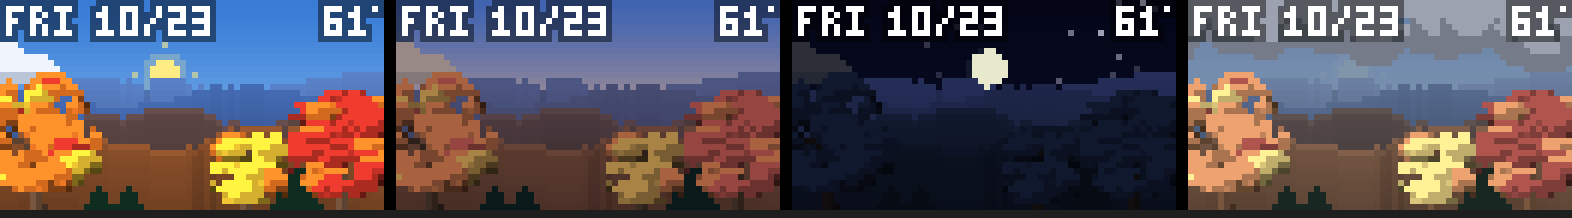
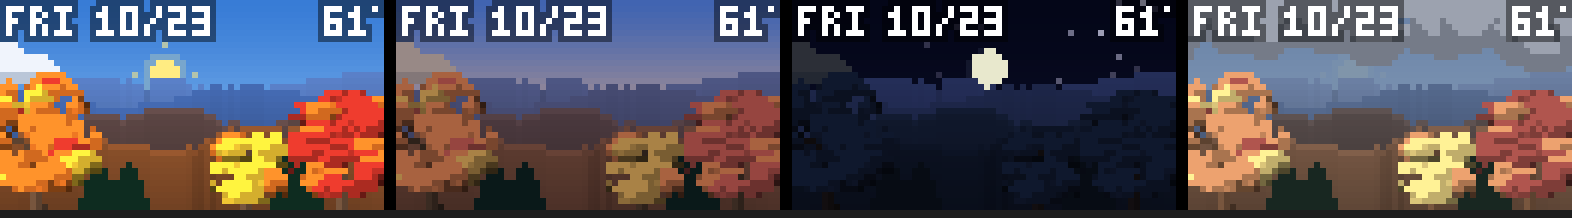
Taller evergreens

diff --git a/src/matrix_display/scene/mountains.py b/src/matrix_display/scene/mountains.py
@@ -32,7 +32,7 @@ _PINES_X = (2, 7, 12, 16, 21, 44, 49, 53, 58, 62)
 _PINES_KEPT = (3, 4, 6)         # indices into _PINES_X that stay evergreen (x = 16, 21, 49)
 # Large foreground trees: (trunk x, crown width, crown height, crown bottom y, colour pick)
 _BIG_TREES = ((6, 22, 20, 32, 0.66), (57, 19, 18, 33, 0.93), (41, 13, 12, 34, 0.4))
-_PINE_WIDTHS = (1, 3, 3, 5, 5, 7, 7, 9)
+_PINE_WIDTHS = (1, 3, 3, 5, 5, 5, 7, 7, 7, 9, 9)
 _PINE_BASE = 34
 
 # Foliage colours, in the order a hillside's weights are applied.
@@ -103,7 +103,7 @@ def _shapes(style: str):
     for base, peaks, fol in STYLES[style][0]:
         tops = _profile(rng, base, peaks)
         ridges.append((tops, fol))
-    pines = [(x, rng.randint(5, 8), _PINE_BASE + rng.randint(0, 1)) for x in _PINES_X]
+    pines = [(x, rng.randint(9, 12), _PINE_BASE + rng.randint(0, 1)) for x in _PINES_X]
     pines = [pines[k] for k in _PINES_KEPT]
     return ridges, pines
 
